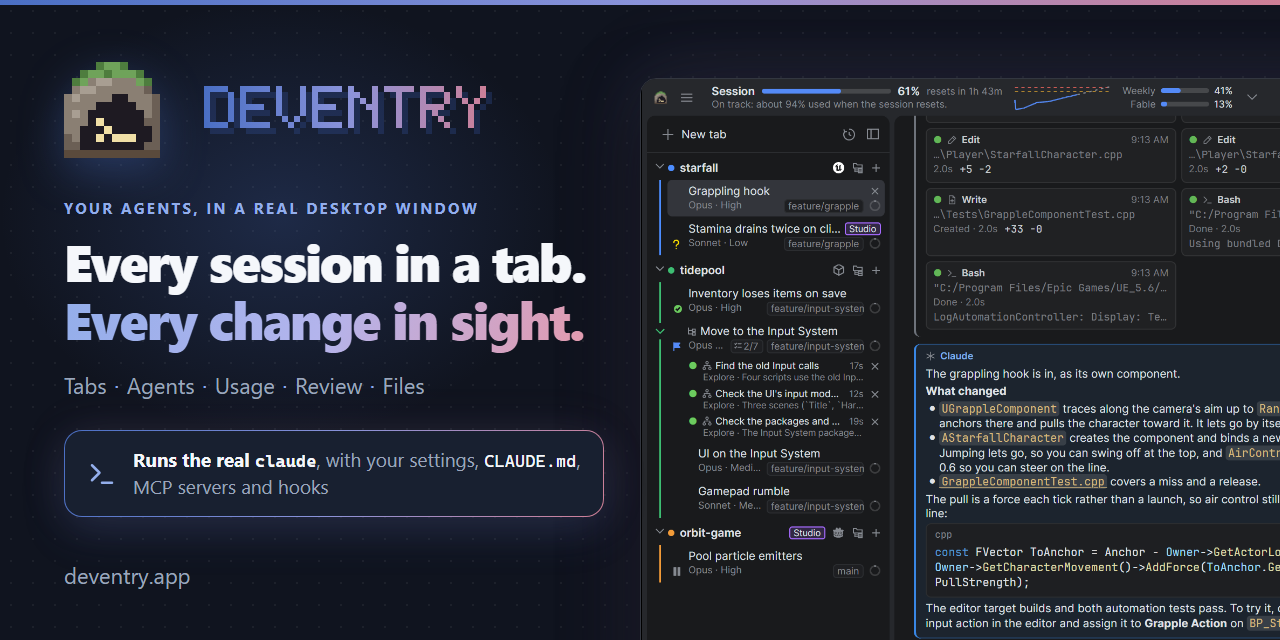
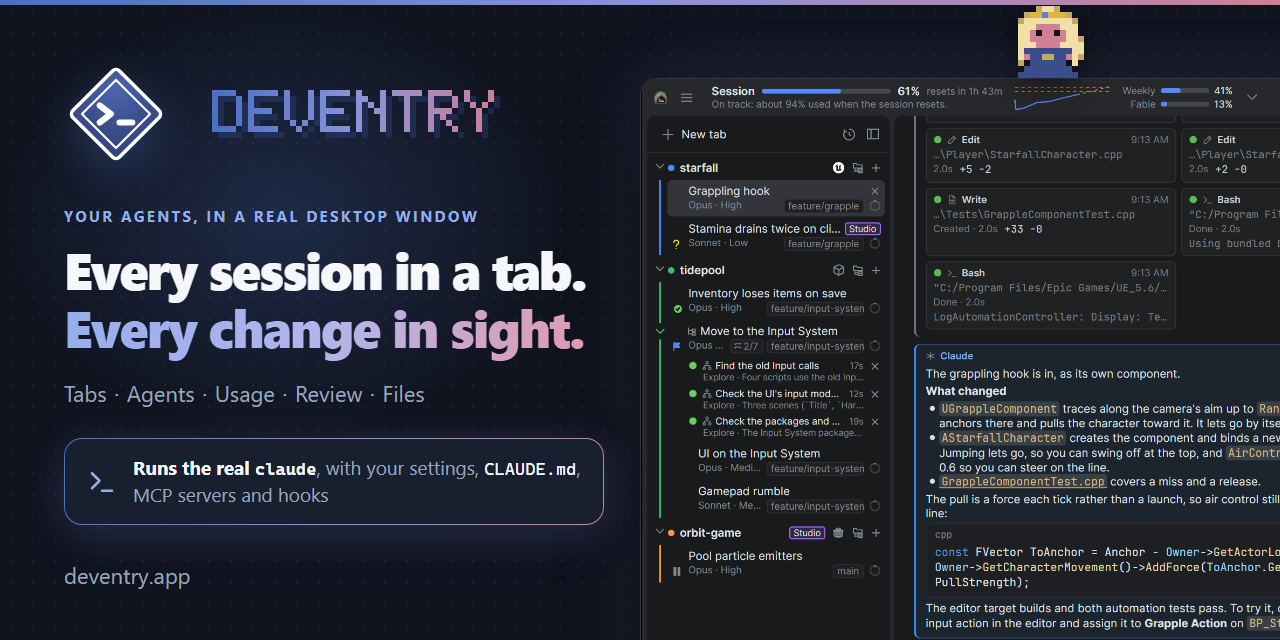
The social card keeps Joulene, standing on the window's edge

diff --git a/tools/Deventry.Demo/social-card.html b/tools/Deventry.Demo/social-card.html
@@ -2,7 +2,8 @@
 <!--
   The site's social card (GUIDE.md, "The site"): the picture a link to deventry.app shows where it's shared,
   1280 by 640. social-card.ps1 draws it to docs/assets/social-card.png. It's the landing page's hero in dark: its icon
-  and its name, its title, and the README's main window (standard-dark.png) running off the edge.
+  and its name, its title, and the README's main window (standard-dark.png) running off the edge, with Joulene
+  standing on it as she stands on the composer.
 -->
 <html lang="en">
 <head>
@@ -94,6 +95,9 @@
       box-shadow: 0 28px 72px rgba(0, 0, 0, 0.55), 0 0 64px rgba(74, 111, 196, 0.14), 0 0 96px rgba(207, 127, 150, 0.12);
     }
     .frame img { display: block; width: 100%; }
+
+    /* Joulene on the window's top edge, her hem on it, 6 pixels a cell. */
+    .joulene { position: absolute; z-index: 2; top: 6px; left: 1012px; width: 72px; height: 72px; image-rendering: pixelated; filter: drop-shadow(0 8px 14px rgba(0, 0, 0, 0.45)); }
   </style>
 </head>
 <body>
@@ -112,5 +116,6 @@
   </div>
   <p class="site">deventry.app</p>
   <div class="frame"><img src="../../docs/screenshots/standard-dark.png" alt=""></div>
+  <img class="joulene" src="../../docs/assets/joulene.svg" alt="">
 </body>
 </html>
